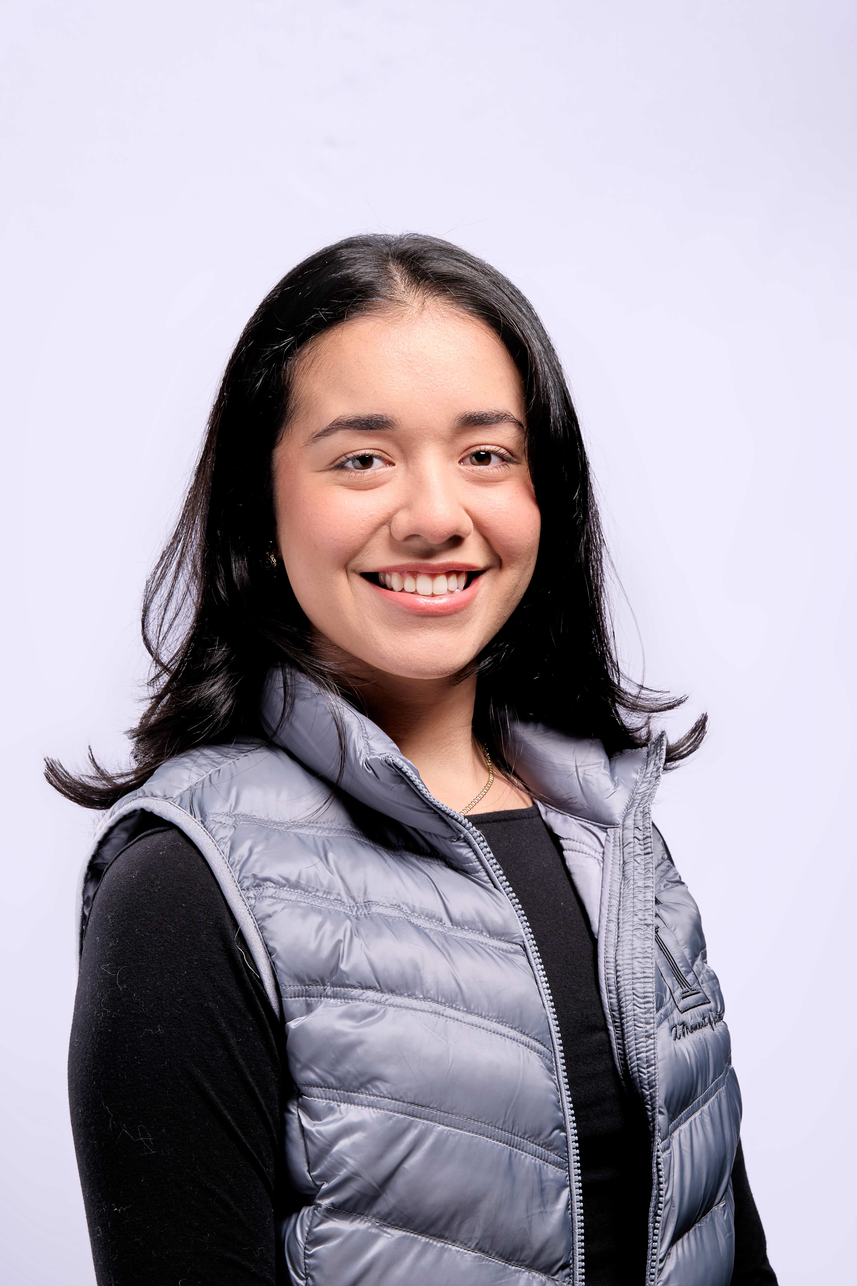
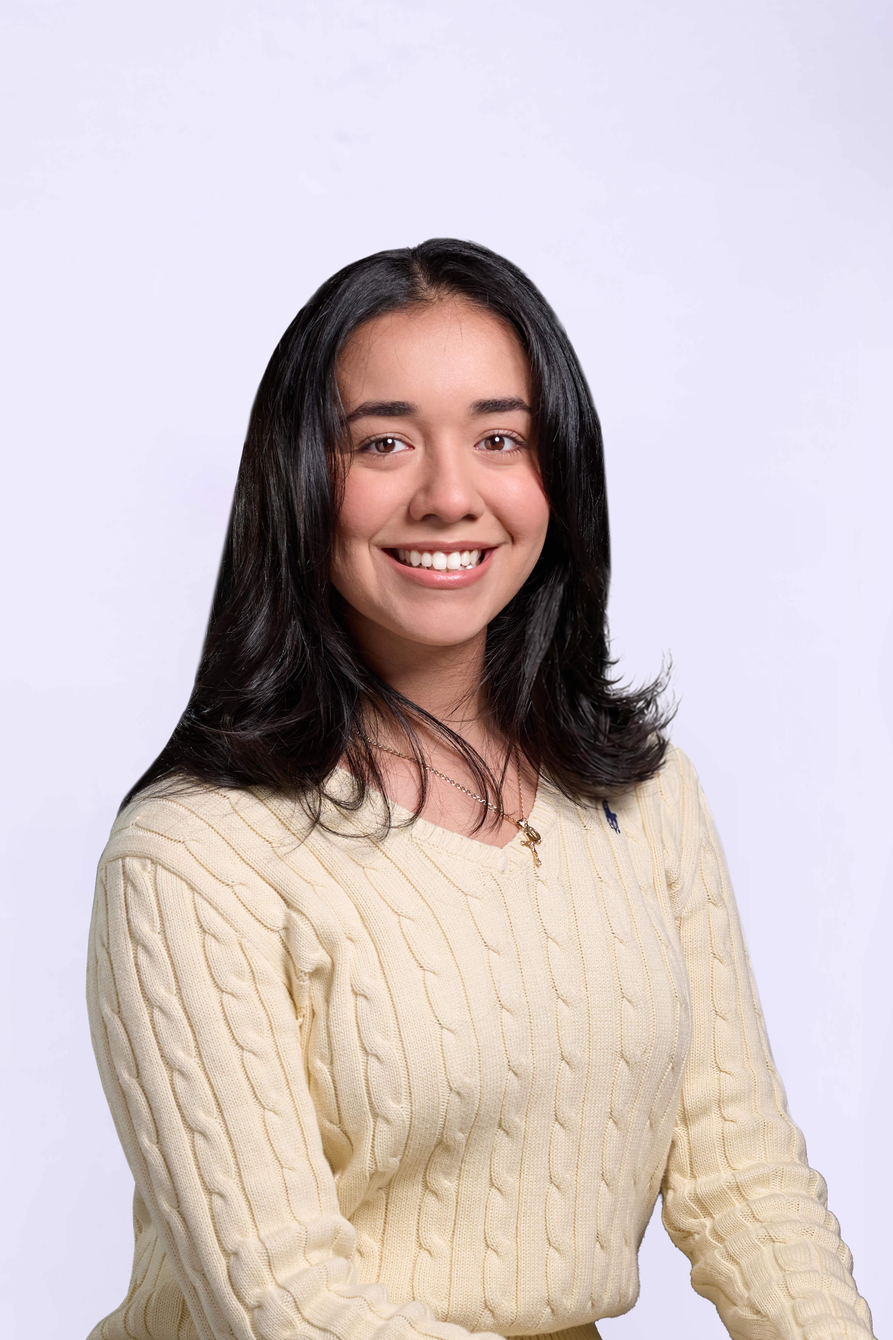
Replace team member photos

diff --git a/team-experts.html b/team-experts.html
@@ -303,7 +303,7 @@
         }
 
         .team-page .team-split-bg {
-            height: 330px !important;
+            height: 384px !important;
             margin-bottom: 18px !important;
             border-radius: 24px !important;
             background: #f7fbff !important;
@@ -324,7 +324,8 @@
             mix-blend-mode: normal !important;
             opacity: 1 !important;
             filter: none !important;
-            object-position: center top;
+            object-fit: contain !important;
+            object-position: center center !important;
         }
 
         .team-page .grid > .group.bg-white h3 {
@@ -353,7 +354,7 @@
             }
 
             .team-page .team-split-bg {
-                height: 300px !important;
+                height: 360px !important;
             }
         }
 
@@ -369,6 +370,10 @@
 
             .team-page .team-hero-stat strong {
                 font-size: 28px;
+            }
+
+            .team-page .team-split-bg {
+                height: 330px !important;
             }
 
             .team-page .border-b-2.border-brand-primary\/30 h2 {
@@ -833,7 +838,7 @@ A2 2 0 0 1 22 16.92z"></path>
                     <div class="group bg-white rounded-[2.5rem] p-4 border border-brand-border/60 hover:border-brand-primary/40 hover:-translate-y-3 hover:shadow-[0_20px_50px_rgba(108,161,230,0.2)] transition-all duration-500 flex flex-col h-full">
                         <div class="relative overflow-hidden rounded-[1.8rem] h-80 w-full mb-6 z-10 select-none team-split-bg">
                             <div class="absolute inset-0 bg-gradient-to-tr from-brand-primary/10 to-transparent opacity-0 group-hover:opacity-100 transition-opacity duration-500 z-0"></div>
-                            <img src="/assets/guzman.png" alt="Sandra Guzman" style="object-position: center 20%;" class="w-full h-full object-cover object-top opacity-95 group-hover:opacity-100 group-hover:scale-105 group-hover:rotate-1 transition-all duration-500 relative z-10" loading="lazy" decoding="async">
+                            <img src="/assets/new team member picture/sandra.jpg" alt="Sandra Guzman" class="w-full h-full object-cover object-top opacity-95 group-hover:opacity-100 group-hover:scale-105 group-hover:rotate-1 transition-all duration-500 relative z-10" loading="eager" decoding="async">
                         </div>
                         <div class="text-center px-4 pb-4 flex flex-col flex-grow">
                             <h3 class="font-heading font-black text-xl text-brand-navy group-hover:text-brand-primary transition-colors duration-300 mb-2">Sandra Guzman</h3>
@@ -847,7 +852,7 @@ A2 2 0 0 1 22 16.92z"></path>
                     <div class="group bg-white rounded-[2.5rem] p-4 border border-brand-border/60 hover:border-brand-primary/40 hover:-translate-y-3 hover:shadow-[0_20px_50px_rgba(108,161,230,0.2)] transition-all duration-500 flex flex-col h-full">
                         <div class="relative overflow-hidden rounded-[1.8rem] h-80 w-full mb-6 z-10 select-none team-split-bg">
                             <div class="absolute inset-0 bg-gradient-to-tr from-brand-primary/10 to-transparent opacity-0 group-hover:opacity-100 transition-opacity duration-500 z-0"></div>
-                            <img src="/assets/spiegelhalter.png" alt="Devin Spiegelhalter" style="object-position: center 20%;" class="w-full h-full object-cover object-top opacity-95 group-hover:opacity-100 group-hover:scale-105 group-hover:rotate-1 transition-all duration-500 relative z-10" loading="lazy" decoding="async">
+                            <img src="/assets/new team member picture/devin.jpg" alt="Devin Spiegelhalter" class="w-full h-full object-cover object-top opacity-95 group-hover:opacity-100 group-hover:scale-105 group-hover:rotate-1 transition-all duration-500 relative z-10" loading="eager" decoding="async">
                         </div>
                         <div class="text-center px-4 pb-4 flex flex-col flex-grow">
                             <h3 class="font-heading font-black text-xl text-brand-navy group-hover:text-brand-primary transition-colors duration-300 mb-2">Devin Spiegelhalter</h3>
@@ -875,7 +880,7 @@ A2 2 0 0 1 22 16.92z"></path>
                     <div class="group bg-white rounded-[2.5rem] p-4 border border-brand-border/60 hover:border-brand-primary/40 hover:-translate-y-3 hover:shadow-[0_20px_50px_rgba(108,161,230,0.2)] transition-all duration-500 flex flex-col h-full">
                         <div class="relative overflow-hidden rounded-[1.8rem] h-80 w-full mb-6 z-10 select-none team-split-bg">
                             <div class="absolute inset-0 bg-gradient-to-tr from-brand-primary/10 to-transparent opacity-0 group-hover:opacity-100 transition-opacity duration-500 z-0"></div>
-                            <img src="/assets/marquez.png" alt="Deanna Marquez" style="object-position: center 20%;" class="w-full h-full object-cover object-top opacity-95 group-hover:opacity-100 group-hover:scale-105 group-hover:rotate-1 transition-all duration-500 relative z-10" loading="lazy" decoding="async">
+                            <img src="/assets/new team member picture/DeannaMarquez-(1).jpg" alt="Deanna Marquez" class="w-full h-full object-cover object-top opacity-95 group-hover:opacity-100 group-hover:scale-105 group-hover:rotate-1 transition-all duration-500 relative z-10" loading="eager" decoding="async">
                         </div>
                         <div class="text-center px-4 pb-4 flex flex-col flex-grow">
                             <h3 class="font-heading font-black text-xl text-brand-navy group-hover:text-brand-primary transition-colors duration-300 mb-2">Deanna Marquez</h3>
@@ -903,7 +908,7 @@ A2 2 0 0 1 22 16.92z"></path>
                     <div class="group bg-white rounded-[2.5rem] p-4 border border-brand-border/60 hover:border-brand-primary/40 hover:-translate-y-3 hover:shadow-[0_20px_50px_rgba(108,161,230,0.2)] transition-all duration-500 flex flex-col h-full">
                         <div class="relative overflow-hidden rounded-[1.8rem] h-80 w-full mb-6 z-10 select-none team-split-bg">
                             <div class="absolute inset-0 bg-gradient-to-tr from-brand-primary/10 to-transparent opacity-0 group-hover:opacity-100 transition-opacity duration-500 z-0"></div>
-                            <img src="/assets/melgarejo.png" alt="Adriana Melgarejo" style="object-position: center 20%;" class="w-full h-full object-cover object-top opacity-95 group-hover:opacity-100 group-hover:scale-105 group-hover:rotate-1 transition-all duration-500 relative z-10" loading="lazy" decoding="async">
+                            <img src="/assets/new team member picture/adriana.jpg" alt="Adriana Melgarejo" class="w-full h-full object-cover object-top opacity-95 group-hover:opacity-100 group-hover:scale-105 group-hover:rotate-1 transition-all duration-500 relative z-10" loading="eager" decoding="async">
                         </div>
                         <div class="text-center px-4 pb-4 flex flex-col flex-grow">
                             <h3 class="font-heading font-black text-xl text-brand-navy group-hover:text-brand-primary transition-colors duration-300 mb-2">Adriana Melgarejo</h3>
@@ -945,7 +950,7 @@ A2 2 0 0 1 22 16.92z"></path>
                     <div class="group bg-white rounded-[2.5rem] p-4 border border-brand-border/60 hover:border-brand-primary/40 hover:-translate-y-3 hover:shadow-[0_20px_50px_rgba(108,161,230,0.2)] transition-all duration-500 flex flex-col h-full">
                         <div class="relative overflow-hidden rounded-[1.8rem] h-80 w-full mb-6 z-10 select-none team-split-bg">
                             <div class="absolute inset-0 bg-gradient-to-tr from-brand-primary/10 to-transparent opacity-0 group-hover:opacity-100 transition-opacity duration-500 z-0"></div>
-                            <img src="/assets/resendiz.png" alt="Genesis Resendiz" style="object-position: center 20%;" class="w-full h-full object-cover object-top opacity-95 group-hover:opacity-100 group-hover:scale-105 group-hover:rotate-1 transition-all duration-500 relative z-10" loading="lazy" decoding="async">
+                            <img src="/assets/new team member picture/genesis.jpg" alt="Genesis Resendiz" class="w-full h-full object-cover object-top opacity-95 group-hover:opacity-100 group-hover:scale-105 group-hover:rotate-1 transition-all duration-500 relative z-10" loading="eager" decoding="async">
                         </div>
                         <div class="text-center px-4 pb-4 flex flex-col flex-grow">
                             <h3 class="font-heading font-black text-xl text-brand-navy group-hover:text-brand-primary transition-colors duration-300 mb-2">Genesis Resendiz</h3>
@@ -987,7 +992,7 @@ A2 2 0 0 1 22 16.92z"></path>
                     <div class="group bg-white rounded-[2.5rem] p-4 border border-brand-border/60 hover:border-brand-primary/40 hover:-translate-y-3 hover:shadow-[0_20px_50px_rgba(108,161,230,0.2)] transition-all duration-500 flex flex-col h-full">
                         <div class="relative overflow-hidden rounded-[1.8rem] h-80 w-full mb-6 z-10 select-none team-split-bg">
                             <div class="absolute inset-0 bg-gradient-to-tr from-brand-primary/10 to-transparent opacity-0 group-hover:opacity-100 transition-opacity duration-500 z-0"></div>
-                            <img src="/assets/jones.png" alt="Sierra Jones" class="w-full h-full object-cover object-top mix-blend-multiply opacity-95 group-hover:opacity-100 group-hover:scale-105 group-hover:rotate-1 transition-all duration-500 relative z-10" loading="lazy" decoding="async">
+                            <img src="/assets/new team member picture/Sierra Jones.jpg" alt="Sierra Jones" class="w-full h-full object-cover object-top mix-blend-multiply opacity-95 group-hover:opacity-100 group-hover:scale-105 group-hover:rotate-1 transition-all duration-500 relative z-10" loading="eager" decoding="async">
                         </div>
                         <div class="text-center px-4 pb-4 flex flex-col flex-grow">
                             <h3 class="font-heading font-black text-xl text-brand-navy group-hover:text-brand-primary transition-colors duration-300 mb-2">Sierra Jones</h3>
@@ -1015,7 +1020,7 @@ A2 2 0 0 1 22 16.92z"></path>
                     <div class="group bg-white rounded-[2.5rem] p-4 border border-brand-border/60 hover:border-brand-primary/40 hover:-translate-y-3 hover:shadow-[0_20px_50px_rgba(108,161,230,0.2)] transition-all duration-500 flex flex-col h-full">
                         <div class="relative overflow-hidden rounded-[1.8rem] h-80 w-full mb-6 z-10 select-none team-split-bg">
                             <div class="absolute inset-0 bg-gradient-to-tr from-brand-primary/10 to-transparent opacity-0 group-hover:opacity-100 transition-opacity duration-500 z-0"></div>
-                            <img src="/assets/StephanieRivera.jpg" alt="Stephanie Rivera" style="object-position: center 20%;" class="w-full h-full object-cover object-top mix-blend-multiply opacity-95 group-hover:opacity-100 group-hover:scale-105 group-hover:rotate-1 transition-all duration-500 relative z-10" loading="lazy" decoding="async">
+                            <img src="/assets/new team member picture/StephanieRivera.jpg" alt="Stephanie Rivera" class="w-full h-full object-cover object-top mix-blend-multiply opacity-95 group-hover:opacity-100 group-hover:scale-105 group-hover:rotate-1 transition-all duration-500 relative z-10" loading="eager" decoding="async">
                         </div>
                         <div class="text-center px-4 pb-4 flex flex-col flex-grow">
                             <h3 class="font-heading font-black text-xl text-brand-navy group-hover:text-brand-primary transition-colors duration-300 mb-2">Stephanie Rivera</h3>
@@ -1063,7 +1068,7 @@ A2 2 0 0 1 22 16.92z"></path>
                     <div class="group bg-white rounded-[2.5rem] p-4 border border-brand-border/60 hover:border-brand-primary/40 hover:-translate-y-3 hover:shadow-[0_20px_50px_rgba(108,161,230,0.2)] transition-all duration-500 flex flex-col h-full">
                         <div class="relative overflow-hidden rounded-[1.8rem] h-80 w-full mb-6 z-10 select-none team-split-bg">
                             <div class="absolute inset-0 bg-gradient-to-tr from-brand-primary/10 to-transparent opacity-0 group-hover:opacity-100 transition-opacity duration-500 z-0"></div>
-                            <img src="/assets/mehar-hassan.jpg" alt="Mehar Hassan" style="object-position: center 20%;" class="w-full h-full object-cover object-top mix-blend-multiply opacity-95 group-hover:opacity-100 group-hover:scale-105 group-hover:rotate-1 transition-all duration-500 relative z-10" loading="lazy" decoding="async">
+                            <img src="/assets/new team member picture/mehar-hassan.jpg" alt="Mehar Hassan" class="w-full h-full object-cover object-top mix-blend-multiply opacity-95 group-hover:opacity-100 group-hover:scale-105 group-hover:rotate-1 transition-all duration-500 relative z-10" loading="eager" decoding="async">
                         </div>
                         <div class="text-center px-4 pb-4 flex flex-col flex-grow">
                             <h3 class="font-heading font-black text-xl text-brand-navy group-hover:text-brand-primary transition-colors duration-300 mb-2">Mehar Hassan</h3>

diff --git a/team-members/index.html b/team-members/index.html
@@ -303,7 +303,7 @@
         }
 
         .team-page .team-split-bg {
-            height: 330px !important;
+            height: 384px !important;
             margin-bottom: 18px !important;
             border-radius: 24px !important;
             background: #f7fbff !important;
@@ -324,7 +324,8 @@
             mix-blend-mode: normal !important;
             opacity: 1 !important;
             filter: none !important;
-            object-position: center top;
+            object-fit: contain !important;
+            object-position: center center !important;
         }
 
         .team-page .grid > .group.bg-white h3 {
@@ -353,7 +354,7 @@
             }
 
             .team-page .team-split-bg {
-                height: 300px !important;
+                height: 360px !important;
             }
         }
 
@@ -369,6 +370,10 @@
 
             .team-page .team-hero-stat strong {
                 font-size: 28px;
+            }
+
+            .team-page .team-split-bg {
+                height: 330px !important;
             }
 
             .team-page .border-b-2.border-brand-primary\/30 h2 {
@@ -833,7 +838,7 @@ A2 2 0 0 1 22 16.92z"></path>
                     <div class="group bg-white rounded-[2.5rem] p-4 border border-brand-border/60 hover:border-brand-primary/40 hover:-translate-y-3 hover:shadow-[0_20px_50px_rgba(108,161,230,0.2)] transition-all duration-500 flex flex-col h-full">
                         <div class="relative overflow-hidden rounded-[1.8rem] h-80 w-full mb-6 z-10 select-none team-split-bg">
                             <div class="absolute inset-0 bg-gradient-to-tr from-brand-primary/10 to-transparent opacity-0 group-hover:opacity-100 transition-opacity duration-500 z-0"></div>
-                            <img src="/assets/guzman.png" alt="Sandra Guzman" style="object-position: center 20%;" class="w-full h-full object-cover object-top opacity-95 group-hover:opacity-100 group-hover:scale-105 group-hover:rotate-1 transition-all duration-500 relative z-10" loading="lazy" decoding="async">
+                            <img src="/assets/new team member picture/sandra.jpg" alt="Sandra Guzman" class="w-full h-full object-cover object-top opacity-95 group-hover:opacity-100 group-hover:scale-105 group-hover:rotate-1 transition-all duration-500 relative z-10" loading="eager" decoding="async">
                         </div>
                         <div class="text-center px-4 pb-4 flex flex-col flex-grow">
                             <h3 class="font-heading font-black text-xl text-brand-navy group-hover:text-brand-primary transition-colors duration-300 mb-2">Sandra Guzman</h3>
@@ -847,7 +852,7 @@ A2 2 0 0 1 22 16.92z"></path>
                     <div class="group bg-white rounded-[2.5rem] p-4 border border-brand-border/60 hover:border-brand-primary/40 hover:-translate-y-3 hover:shadow-[0_20px_50px_rgba(108,161,230,0.2)] transition-all duration-500 flex flex-col h-full">
                         <div class="relative overflow-hidden rounded-[1.8rem] h-80 w-full mb-6 z-10 select-none team-split-bg">
                             <div class="absolute inset-0 bg-gradient-to-tr from-brand-primary/10 to-transparent opacity-0 group-hover:opacity-100 transition-opacity duration-500 z-0"></div>
-                            <img src="/assets/spiegelhalter.png" alt="Devin Spiegelhalter" style="object-position: center 20%;" class="w-full h-full object-cover object-top opacity-95 group-hover:opacity-100 group-hover:scale-105 group-hover:rotate-1 transition-all duration-500 relative z-10" loading="lazy" decoding="async">
+                            <img src="/assets/new team member picture/devin.jpg" alt="Devin Spiegelhalter" class="w-full h-full object-cover object-top opacity-95 group-hover:opacity-100 group-hover:scale-105 group-hover:rotate-1 transition-all duration-500 relative z-10" loading="eager" decoding="async">
                         </div>
                         <div class="text-center px-4 pb-4 flex flex-col flex-grow">
                             <h3 class="font-heading font-black text-xl text-brand-navy group-hover:text-brand-primary transition-colors duration-300 mb-2">Devin Spiegelhalter</h3>
@@ -875,7 +880,7 @@ A2 2 0 0 1 22 16.92z"></path>
                     <div class="group bg-white rounded-[2.5rem] p-4 border border-brand-border/60 hover:border-brand-primary/40 hover:-translate-y-3 hover:shadow-[0_20px_50px_rgba(108,161,230,0.2)] transition-all duration-500 flex flex-col h-full">
                         <div class="relative overflow-hidden rounded-[1.8rem] h-80 w-full mb-6 z-10 select-none team-split-bg">
                             <div class="absolute inset-0 bg-gradient-to-tr from-brand-primary/10 to-transparent opacity-0 group-hover:opacity-100 transition-opacity duration-500 z-0"></div>
-                            <img src="/assets/marquez.png" alt="Deanna Marquez" style="object-position: center 20%;" class="w-full h-full object-cover object-top opacity-95 group-hover:opacity-100 group-hover:scale-105 group-hover:rotate-1 transition-all duration-500 relative z-10" loading="lazy" decoding="async">
+                            <img src="/assets/new team member picture/DeannaMarquez-(1).jpg" alt="Deanna Marquez" class="w-full h-full object-cover object-top opacity-95 group-hover:opacity-100 group-hover:scale-105 group-hover:rotate-1 transition-all duration-500 relative z-10" loading="eager" decoding="async">
                         </div>
                         <div class="text-center px-4 pb-4 flex flex-col flex-grow">
                             <h3 class="font-heading font-black text-xl text-brand-navy group-hover:text-brand-primary transition-colors duration-300 mb-2">Deanna Marquez</h3>
@@ -903,7 +908,7 @@ A2 2 0 0 1 22 16.92z"></path>
                     <div class="group bg-white rounded-[2.5rem] p-4 border border-brand-border/60 hover:border-brand-primary/40 hover:-translate-y-3 hover:shadow-[0_20px_50px_rgba(108,161,230,0.2)] transition-all duration-500 flex flex-col h-full">
                         <div class="relative overflow-hidden rounded-[1.8rem] h-80 w-full mb-6 z-10 select-none team-split-bg">
                             <div class="absolute inset-0 bg-gradient-to-tr from-brand-primary/10 to-transparent opacity-0 group-hover:opacity-100 transition-opacity duration-500 z-0"></div>
-                            <img src="/assets/melgarejo.png" alt="Adriana Melgarejo" style="object-position: center 20%;" class="w-full h-full object-cover object-top opacity-95 group-hover:opacity-100 group-hover:scale-105 group-hover:rotate-1 transition-all duration-500 relative z-10" loading="lazy" decoding="async">
+                            <img src="/assets/new team member picture/adriana.jpg" alt="Adriana Melgarejo" class="w-full h-full object-cover object-top opacity-95 group-hover:opacity-100 group-hover:scale-105 group-hover:rotate-1 transition-all duration-500 relative z-10" loading="eager" decoding="async">
                         </div>
                         <div class="text-center px-4 pb-4 flex flex-col flex-grow">
                             <h3 class="font-heading font-black text-xl text-brand-navy group-hover:text-brand-primary transition-colors duration-300 mb-2">Adriana Melgarejo</h3>
@@ -945,7 +950,7 @@ A2 2 0 0 1 22 16.92z"></path>
                     <div class="group bg-white rounded-[2.5rem] p-4 border border-brand-border/60 hover:border-brand-primary/40 hover:-translate-y-3 hover:shadow-[0_20px_50px_rgba(108,161,230,0.2)] transition-all duration-500 flex flex-col h-full">
                         <div class="relative overflow-hidden rounded-[1.8rem] h-80 w-full mb-6 z-10 select-none team-split-bg">
                             <div class="absolute inset-0 bg-gradient-to-tr from-brand-primary/10 to-transparent opacity-0 group-hover:opacity-100 transition-opacity duration-500 z-0"></div>
-                            <img src="/assets/resendiz.png" alt="Genesis Resendiz" style="object-position: center 20%;" class="w-full h-full object-cover object-top opacity-95 group-hover:opacity-100 group-hover:scale-105 group-hover:rotate-1 transition-all duration-500 relative z-10" loading="lazy" decoding="async">
+                            <img src="/assets/new team member picture/genesis.jpg" alt="Genesis Resendiz" class="w-full h-full object-cover object-top opacity-95 group-hover:opacity-100 group-hover:scale-105 group-hover:rotate-1 transition-all duration-500 relative z-10" loading="eager" decoding="async">
                         </div>
                         <div class="text-center px-4 pb-4 flex flex-col flex-grow">
                             <h3 class="font-heading font-black text-xl text-brand-navy group-hover:text-brand-primary transition-colors duration-300 mb-2">Genesis Resendiz</h3>
@@ -987,7 +992,7 @@ A2 2 0 0 1 22 16.92z"></path>
                     <div class="group bg-white rounded-[2.5rem] p-4 border border-brand-border/60 hover:border-brand-primary/40 hover:-translate-y-3 hover:shadow-[0_20px_50px_rgba(108,161,230,0.2)] transition-all duration-500 flex flex-col h-full">
                         <div class="relative overflow-hidden rounded-[1.8rem] h-80 w-full mb-6 z-10 select-none team-split-bg">
                             <div class="absolute inset-0 bg-gradient-to-tr from-brand-primary/10 to-transparent opacity-0 group-hover:opacity-100 transition-opacity duration-500 z-0"></div>
-                            <img src="/assets/jones.png" alt="Sierra Jones" class="w-full h-full object-cover object-top mix-blend-multiply opacity-95 group-hover:opacity-100 group-hover:scale-105 group-hover:rotate-1 transition-all duration-500 relative z-10" loading="lazy" decoding="async">
+                            <img src="/assets/new team member picture/Sierra Jones.jpg" alt="Sierra Jones" class="w-full h-full object-cover object-top mix-blend-multiply opacity-95 group-hover:opacity-100 group-hover:scale-105 group-hover:rotate-1 transition-all duration-500 relative z-10" loading="eager" decoding="async">
                         </div>
                         <div class="text-center px-4 pb-4 flex flex-col flex-grow">
                             <h3 class="font-heading font-black text-xl text-brand-navy group-hover:text-brand-primary transition-colors duration-300 mb-2">Sierra Jones</h3>
@@ -1015,7 +1020,7 @@ A2 2 0 0 1 22 16.92z"></path>
                     <div class="group bg-white rounded-[2.5rem] p-4 border border-brand-border/60 hover:border-brand-primary/40 hover:-translate-y-3 hover:shadow-[0_20px_50px_rgba(108,161,230,0.2)] transition-all duration-500 flex flex-col h-full">
                         <div class="relative overflow-hidden rounded-[1.8rem] h-80 w-full mb-6 z-10 select-none team-split-bg">
                             <div class="absolute inset-0 bg-gradient-to-tr from-brand-primary/10 to-transparent opacity-0 group-hover:opacity-100 transition-opacity duration-500 z-0"></div>
-                            <img src="/assets/StephanieRivera.jpg" alt="Stephanie Rivera" style="object-position: center 20%;" class="w-full h-full object-cover object-top mix-blend-multiply opacity-95 group-hover:opacity-100 group-hover:scale-105 group-hover:rotate-1 transition-all duration-500 relative z-10" loading="lazy" decoding="async">
+                            <img src="/assets/new team member picture/StephanieRivera.jpg" alt="Stephanie Rivera" class="w-full h-full object-cover object-top mix-blend-multiply opacity-95 group-hover:opacity-100 group-hover:scale-105 group-hover:rotate-1 transition-all duration-500 relative z-10" loading="eager" decoding="async">
                         </div>
                         <div class="text-center px-4 pb-4 flex flex-col flex-grow">
                             <h3 class="font-heading font-black text-xl text-brand-navy group-hover:text-brand-primary transition-colors duration-300 mb-2">Stephanie Rivera</h3>
@@ -1063,7 +1068,7 @@ A2 2 0 0 1 22 16.92z"></path>
                     <div class="group bg-white rounded-[2.5rem] p-4 border border-brand-border/60 hover:border-brand-primary/40 hover:-translate-y-3 hover:shadow-[0_20px_50px_rgba(108,161,230,0.2)] transition-all duration-500 flex flex-col h-full">
                         <div class="relative overflow-hidden rounded-[1.8rem] h-80 w-full mb-6 z-10 select-none team-split-bg">
                             <div class="absolute inset-0 bg-gradient-to-tr from-brand-primary/10 to-transparent opacity-0 group-hover:opacity-100 transition-opacity duration-500 z-0"></div>
-                            <img src="/assets/mehar-hassan.jpg" alt="Mehar Hassan" style="object-position: center 20%;" class="w-full h-full object-cover object-top mix-blend-multiply opacity-95 group-hover:opacity-100 group-hover:scale-105 group-hover:rotate-1 transition-all duration-500 relative z-10" loading="lazy" decoding="async">
+                            <img src="/assets/new team member picture/mehar-hassan.jpg" alt="Mehar Hassan" class="w-full h-full object-cover object-top mix-blend-multiply opacity-95 group-hover:opacity-100 group-hover:scale-105 group-hover:rotate-1 transition-all duration-500 relative z-10" loading="eager" decoding="async">
                         </div>
                         <div class="text-center px-4 pb-4 flex flex-col flex-grow">
                             <h3 class="font-heading font-black text-xl text-brand-navy group-hover:text-brand-primary transition-colors duration-300 mb-2">Mehar Hassan</h3>
